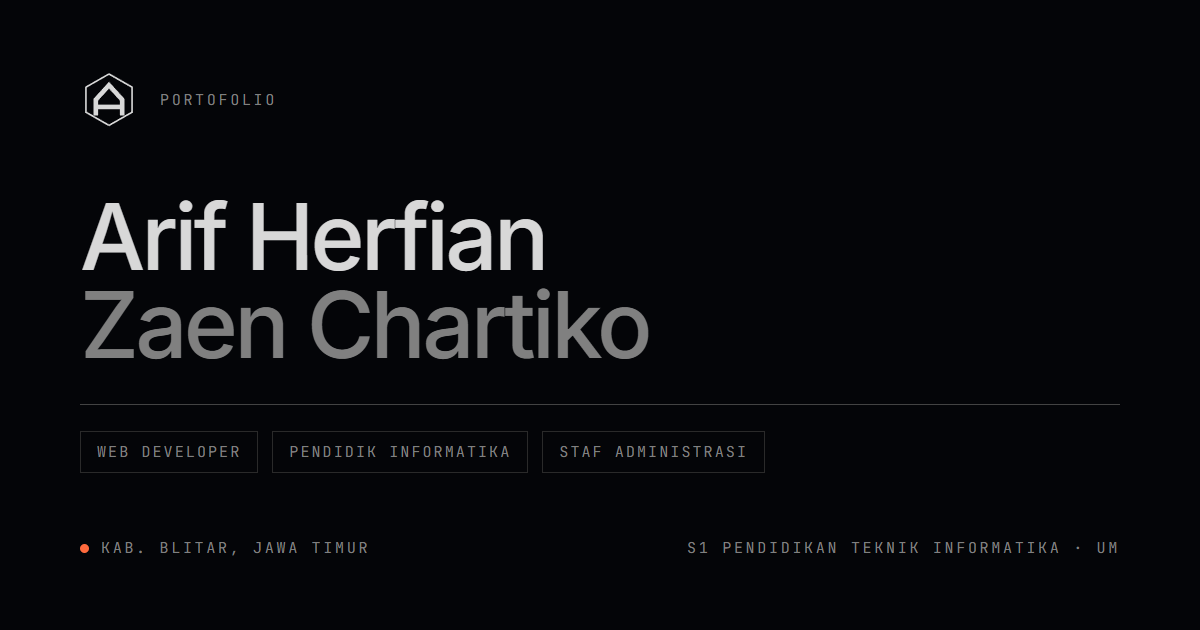
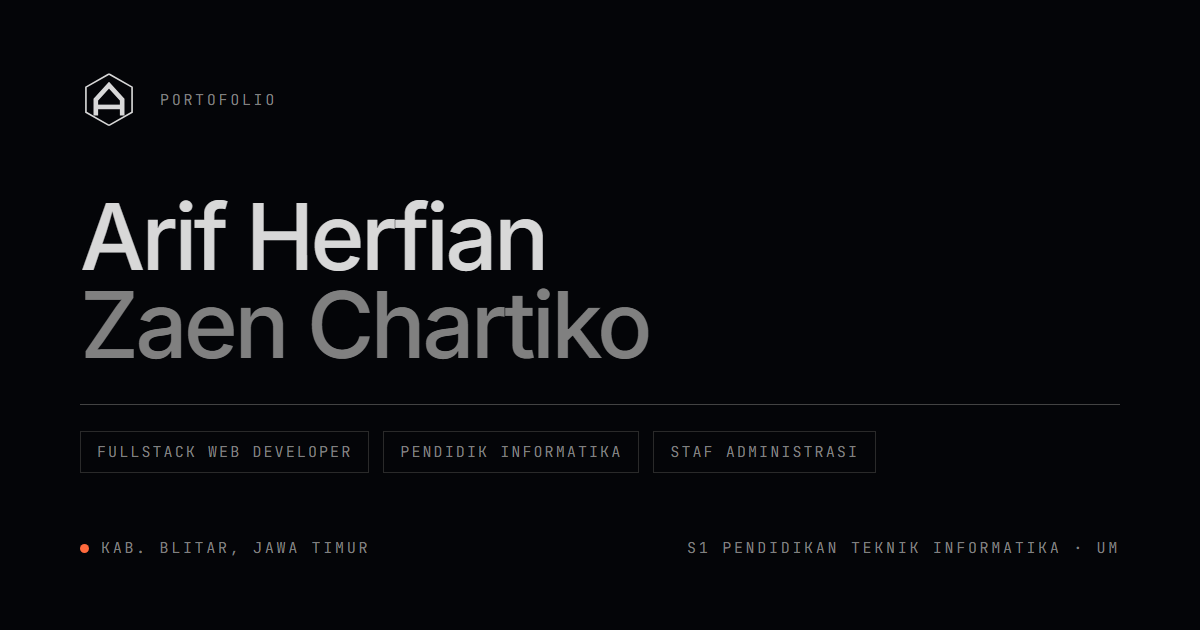
Ubah peran utama jadi Fullstack Web Developer
index.html                       +12  -6
  src/components/Keahlian.jsx     +136 -24
  src/components/Hero.jsx          +10  -4
  src/components/Tentang.jsx        +3  -3
  Footer / Kontak / Pengalaman.jsx  +1  -1  masing-masing
  tools/og-template.html            +1  -1
  public/assets/icons/{laravel,php,mysql}.svg   BARU
  public/assets/og.png             35118 -> 35736 B, di-render ulang
                                  12 files changed, 242(+), 41(-)

Teks peran, 13 tempat. index.html: <title>, <meta name="description">,
og:title, og:description, og:image:alt. Hero.jsx:99 attribute
data-typewriter, elemen pertama array JSON. Tentang.jsx:34 paragraf
data-word-scrub dan :43 <h3> baris 01. Pengalaman.jsx:9 dan Footer.jsx:15,
keduanya isi [data-marquee-copy]. Kontak.jsx:47. Keahlian.jsx:75 judul
.stage-card--lead. og-template.html:85 kotak peran pertama.

Meta description kini mengeja "HTML, CSS, JavaScript, PHP, Laravel, MySQL"
secara harfiah. Panjangnya jadi 177 karakter, di atas 160 yang ditampilkan
Google -- disengaja: sisanya tetap ter-index, dan ATS mencocokkan nama
teknologi apa adanya, bukan kata payungnya.

Grid tools. Kelompok bertambah dari 4 jadi 5, isinya 3-4-2-2-3
(sebelumnya 4-2-2-3). Kelompok baru "Sisi Server" berdiri paling depan
berisi Laravel, PHP, MySQL; "Pengembangan" menyusul dengan keempat isi
lamanya (VS Code, GitHub, Vercel, Figma) tanpa perubahan.

Seluruh data-delay dihitung ulang: 14 card, 0,03 berurutan dari 0 sampai
[…]

Changed region(s): [[0.0617, 0.6937, 0.7092, 0.7238]]

diff --git a/src/components/Keahlian.jsx b/src/components/Keahlian.jsx
@@ -49,8 +49,14 @@ export default function Keahlian() {
                di samping "Pengembangan Web". Keempatnya lalu tampil setara padahal
                tiga di antaranya peran dan satu cuma kemampuan penunjang — pembaca
                tidak punya cara membedakannya. Isinya sekarang masuk ke kartu
-               Pengembangan Web, karena memang di situ tempatnya: menyusun tampilan
-               adalah bagian dari membangunnya. */}
+               Pengembangan Fullstack, karena memang di situ tempatnya: menyusun
+               tampilan adalah bagian dari membangunnya.
+
+               Kartu itu berganti nama dari "Pengembangan Web" jadi "Pengembangan
+               Fullstack" pada 9 Agustus 2026, seiring peran utama di mesin ketik.
+               Namanya sengaja menyebut cakupan, bukan teknologinya: nama kerangka
+               kerja berganti setiap beberapa tahun, sedangkan "dua sisi" tidak.
+               Teknologinya disebut di kalimat bawahnya dan di kisi Perkakas. */}
           {/* KENAPA TIAP KARTU DIBUNGKUS .stage-slot, dan jangan dibuang.
                Ada DUA gerak yang bekerja pada kartu yang sama sekaligus, dan
                keduanya butuh `opacity`:
@@ -72,14 +78,20 @@ export default function Keahlian() {
             <div className="stage-slot stage-slot--lead" data-kartu-slot data-arah="pudar">
             <article data-kartu-peran className="stage-card stage-card--lead">
               <div className="mb-6 flex items-start justify-between gap-6">
-                <h3 className="-h2 max-w-[9em]">Pengembangan Web</h3>
+                <h3 className="-h2 max-w-[9em]">Pengembangan Fullstack</h3>
                 <span data-glyph="1"></span>
               </div>
               {/* Lebar teks dibatasi meski kartunya melebar. Tanpa ini satu baris
                    memuat sekitar 130 karakter di desktop, dan mata kehilangan tempat
                    saat berpindah ke baris berikutnya. 42rem menahannya di sekitar
                    88 karakter. */}
-              <p className="-body-small max-w-2xl text-text-muted">Membangun dengan HTML, CSS, dan JavaScript tanpa kerangka kerja: menyusun layout dan hierarki visual, menjaga tampilan tetap terbaca dari ponsel sampai desktop, serta menakar gerak dan bobot halaman supaya tetap ringan di perangkat kelas menengah.</p>
+              {/* "tanpa kerangka kerja" DIBUANG dari kalimat ini pada 9 Agustus
+                   2026, dan bukan cuma karena Laravel masuk. Frasa itu memang
+                   sudah keliru sejak situs ini dikembalikan ke React sehari
+                   sebelumnya — halaman yang memuat kalimatnya sendiri dibangun
+                   dengan kerangka kerja. Kalimat yang dibantah oleh halaman
+                   tempat ia berdiri adalah yang paling mahal ongkosnya. */}
+              <p className="-body-small max-w-2xl text-text-muted">Mengerjakan dua sisi sekaligus: antarmuka dengan HTML, CSS, dan JavaScript — menyusun layout, hierarki visual, dan gerak yang terukur supaya tetap ringan di perangkat kelas menengah — lalu sisi server dengan PHP dan Laravel, termasuk merancang skema serta kueri MySQL yang menopangnya.</p>
             </article>
             </div>
 
@@ -168,18 +180,117 @@ export default function Keahlian() {
                dari UI/UX Designer jadi Web Developer: ia berdiri paling depan
                padahal tidak lagi mewakili peran mana pun yang diklaim di sampul.
                Jeda animasi seluruh baris di bawah ikut dihitung ulang supaya
-               kembali berurutan 0,03 dari nol. */}
+               kembali berurutan 0,03 dari nol.
+
+               LARAVEL, PHP, DAN MYSQL DITAMBAHKAN pada 9 Agustus 2026, waktu
+               peran utama berganti dari Web Developer jadi Fullstack Web
+               Developer. Tanpa ketiganya klaim di sampul tidak punya alas sama
+               sekali: kisi ini seluruhnya perkakas sisi antarmuka, sehingga
+               kata "fullstack" cuma jadi label yang dibantah oleh isinya
+               sendiri. Ketiganya berdiri sebagai kelompok PERTAMA, dengan
+               alasan yang ditulis panjang tepat di atas barisnya.
+
+               Kelompoknya jadi lima, isinya 3-4-2-2-3, dan jeda seluruh kisi
+               digeser: yang tadinya berakhir di 0,30 sekarang 0,39. Aturannya
+               tidak berubah — 0,03 berurutan dari nol menembus semua kelompok,
+               dan label tiap kelompok memakai jeda kartu pertamanya. */}
           <div>
             <h3 data-component="scrub-reveal" className="-caption-small mb-8 text-text-muted">Perkakas</h3>
             <div className="border-t border-line">
 
+              {/* SISI SERVER BERDIRI SEBAGAI KELOMPOK SENDIRI, bukan disatukan
+                   ke Pengembangan, dan ada dua alasan yang kebetulan sejalan.
+
+                   YANG PERTAMA, TATA LETAK. Sempat dicoba satu kelompok berisi
+                   tujuh, dan itu memecahkan sifat yang dijaga kisi ini sejak
+                   awal: jumlah kartu per baris ditentukan penulisnya, bukan
+                   lebar layar. Terukur pada tujuh — desktop memuat enam lalu
+                   melempar Figma sendirian ke baris kedua (982px ruang isi
+                   dibagi 152px per kartu = 6,4), sementara ponsel yang dipatok
+                   25% memuat empat lalu tiga. Dua susunan berbeda untuk kisi
+                   yang sama. Dipecah jadi 3 dan 4, keduanya muat satu baris
+                   penuh di semua lebar, persis seperti kelompok lainnya.
+
+                   YANG KEDUA, DAN INI YANG SEBENARNYA LEBIH PENTING: label
+                   inilah yang membuat klaim "fullstack" bisa DILIHAT, bukan
+                   cuma dibaca. Satu baris berlabel "Sisi Server" menjawab
+                   pertanyaan yang paling wajar diajukan pembaca — frontend,
+                   backend, atau yang mana — tanpa satu kalimat penjelasan pun.
+
+                   Namanya "Sisi Server", bukan "Backend", supaya seragam dengan
+                   kalimat di kartu Pengembangan Fullstack di atas yang juga
+                   memakai frasa itu. Dua nama untuk satu hal di halaman yang
+                   sama membuat pembaca berhenti menimbang apakah keduanya
+                   memang hal yang berbeda.
+
+                   Kelompok Pengembangan di bawahnya sengaja TIDAK diberi nama
+                   "Frontend": isinya editor, kendali versi, tempat terbit, dan
+                   perkakas rancang — tidak satu pun khusus sisi antarmuka.
+                   Menamainya begitu akan jadi label yang dibantah isinya. */}
               <div className="tool-row border-b border-line">
-                <h4 data-component="scrub-reveal" data-delay="0" className="-caption-small tool-label text-text-muted">Pengembangan</h4>
+                <h4 data-component="scrub-reveal" data-delay="0" className="-caption-small tool-label text-text-muted">Sisi Server</h4>
                 <span data-component="scrub-reveal" data-delay="0" className="h-px w-8 self-center bg-line"></span>
 
                 <div className="tool-items">
 
                   <div data-component="scrub-reveal" data-delay="0" className="group flex flex-col items-center justify-start gap-3 px-2 text-center nav:gap-4">
+                    <span className="flex w-full justify-center text-text">
+                      <span className="flex h-8 w-full shrink-0 items-center justify-center nav:h-9">
+                        <img src="assets/icons/laravel.svg" alt="" loading="lazy" decoding="async" className="max-h-full max-w-full object-contain" />
+                      </span>
+                    </span>
+                    <span className="-body-smaller leading-tight text-text-muted transition-colors duration-500 ease-brand group-hover:text-text">Laravel</span>
+                  </div>
+
+                  {/* Lambang resmi PHP adalah wordmark "php" DI DALAM elips
+                       lavender berlis putih — ia satu-satunya di kisi ini yang
+                       membawa latarnya sendiri. Di halaman segelap ini elips itu
+                       terbaca sebagai gumpalan paling terang di barisnya, jauh
+                       melebihi porsinya dibanding Laravel dan VS Code.
+
+                       Diukur pada 36px berdampingan dengan tetangganya: pada
+                       skala 1,0 ia mendominasi, pada 0,80 ia jadi terlalu kecil
+                       untuk terbaca hurufnya. 0,88 titik tengahnya — bobotnya
+                       setara GitHub dan VS Code, tulisan "php"-nya masih terbaca.
+
+                       Ini perlakuan yang sama dengan Vercel (0,86) dan Stitch
+                       (0,85): SKALANYA yang diturunkan, bukan warnanya diganti.
+                       Mengubah warna lambang resmi orang lain melanggar pedoman
+                       mereknya; mengecilkannya tidak. */}
+                  <div data-component="scrub-reveal" data-delay="0.03" className="group flex flex-col items-center justify-start gap-3 px-2 text-center nav:gap-4">
+                    <span className="flex w-full justify-center text-text">
+                      <span className="flex h-8 w-full shrink-0 items-center justify-center nav:h-9">
+                        <img src="assets/icons/php.svg" alt="" loading="lazy" decoding="async" style={{ transform: "scale(0.88)" }} className="max-h-full max-w-full object-contain" />
+                      </span>
+                    </span>
+                    <span className="-body-smaller leading-tight text-text-muted transition-colors duration-500 ease-brand group-hover:text-text">PHP</span>
+                  </div>
+
+                  {/* MySQL DINAIKKAN ke 1,06, kebalikan dari PHP. Lambangnya
+                       lumba-lumba di atas wordmark, jadi tingginya terbagi dua
+                       dan tulisan "MySQL" cuma kebagian sekitar 40% dari 36px.
+                       Pada skala 1,0 tulisannya mengecil sampai hampir tak
+                       terbaca; 1,06 mengembalikannya tanpa membuat lumba-lumbanya
+                       melewati tinggi kotak. */}
+                  <div data-component="scrub-reveal" data-delay="0.06" className="group flex flex-col items-center justify-start gap-3 px-2 text-center nav:gap-4">
+                    <span className="flex w-full justify-center text-text">
+                      <span className="flex h-8 w-full shrink-0 items-center justify-center nav:h-9">
+                        <img src="assets/icons/mysql.svg" alt="" loading="lazy" decoding="async" style={{ transform: "scale(1.06)" }} className="max-h-full max-w-full object-contain" />
+                      </span>
+                    </span>
+                    <span className="-body-smaller leading-tight text-text-muted transition-colors duration-500 ease-brand group-hover:text-text">MySQL</span>
+                  </div>
+
+                </div>
+              </div>
+
+              <div className="tool-row border-b border-line">
+                <h4 data-component="scrub-reveal" data-delay="0.09" className="-caption-small tool-label text-text-muted">Pengembangan</h4>
+                <span data-component="scrub-reveal" data-delay="0.09" className="h-px w-8 self-center bg-line"></span>
+
+                <div className="tool-items">
+
+                  <div data-component="scrub-reveal" data-delay="0.09" className="group flex flex-col items-center justify-start gap-3 px-2 text-center nav:gap-4">
                     <span className="flex w-full justify-center text-text">
                       <span className="flex h-8 w-full shrink-0 items-center justify-center nav:h-9">
                         <img src="assets/icons/vscode.svg" alt="" loading="lazy" decoding="async" style={{ transform: "scale(1.14)" }} className="max-h-full max-w-full object-contain" />
@@ -191,7 +302,7 @@ export default function Keahlian() {
                   {/* GitHub dan Notion tampil satu warna, dan itu BUKAN
                        penambal: lambang resmi keduanya memang tidak punya versi
                        berwarna menurut pedoman mereknya sendiri. */}
-                  <div data-component="scrub-reveal" data-delay="0.03" className="group flex flex-col items-center justify-start gap-3 px-2 text-center nav:gap-4">
+                  <div data-component="scrub-reveal" data-delay="0.12" className="group flex flex-col items-center justify-start gap-3 px-2 text-center nav:gap-4">
                     <span className="flex w-full justify-center text-text">
                       <span className="flex h-8 w-full shrink-0 items-center justify-center nav:h-9">
                         <svg viewBox="0 0 24 24" fill="currentColor" aria-hidden="true" className="aspect-square h-full"><path d="M12 .297c-6.63 0-12 5.373-12 12c0 5.303 3.438 9.8 8.205 11.385c.6.113.82-.258.82-.577c0-.285-.01-1.04-.015-2.04c-3.338.724-4.042-1.61-4.042-1.61C4.422 18.07 3.633 17.7 3.633 17.7c-1.087-.744.084-.729.084-.729c1.205.084 1.838 1.236 1.838 1.236c1.07 1.835 2.809 1.305 3.495.998c.108-.776.417-1.305.76-1.605c-2.665-.3-5.466-1.332-5.466-5.93c0-1.31.465-2.38 1.235-3.22c-.135-.303-.54-1.523.105-3.176c0 0 1.005-.322 3.3 1.23c.96-.267 1.98-.399 3-.405c1.02.006 2.04.138 3 .405c2.28-1.552 3.285-1.23 3.285-1.23c.645 1.653.24 2.873.12 3.176c.765.84 1.23 1.91 1.23 3.22c0 4.61-2.805 5.625-5.475 5.92c.42.36.81 1.096.81 2.22c0 1.606-.015 2.896-.015 3.286c0 .315.21.69.825.57C20.565 22.092 24 17.592 24 12.297c0-6.627-5.373-12-12-12" /></svg>
@@ -203,7 +314,7 @@ export default function Keahlian() {
                   {/* Vercel digambar satu warna: lambang resminya memang hanya
                        hitam atau putih. Aslinya hitam, dibalik ke #d8d8d8 karena
                        latar bagian ini gelap. */}
-                  <div data-component="scrub-reveal" data-delay="0.06" className="group flex flex-col items-center justify-start gap-3 px-2 text-center nav:gap-4">
+                  <div data-component="scrub-reveal" data-delay="0.15" className="group flex flex-col items-center justify-start gap-3 px-2 text-center nav:gap-4">
                     <span className="flex w-full justify-center text-text">
                       <span className="flex h-8 w-full shrink-0 items-center justify-center nav:h-9">
                         <img src="assets/icons/vercel.svg" alt="" loading="lazy" decoding="async" style={{ transform: "scale(0.86)" }} className="max-h-full max-w-full object-contain" />
@@ -215,8 +326,9 @@ export default function Keahlian() {
                   {/* Figma ditaruh PALING BELAKANG di baris ini, bukan paling depan,
                        meski di alur kerja ia datang lebih dulu dari menulis kode.
                        Baris ini dibaca dari kiri sebagai apa yang paling mewakili
-                       peran Web Developer, dan yang harus berdiri di depan adalah
-                       perkakas membangunnya. Kalau nanti barisnya mau dibaca sebagai
+                       peran Fullstack Web Developer, dan yang harus berdiri di depan
+                       adalah perkakas membangunnya — sejak 9 Agustus 2026 itu berarti
+                       Laravel, PHP, dan MySQL. Kalau nanti barisnya mau dibaca sebagai
                        alur — rancang, tulis, simpan, terbitkan — pindahkan Figma ke
                        depan dan hitung ulang jedanya.
 
@@ -224,7 +336,7 @@ export default function Keahlian() {
                        halaman unduhan Figma. Warnanya rona baru mereka (#FF7237,
                        #FF3737, #00B6FF, #874FFF, #24CB71), bukan rona lama yang
                        masih banyak beredar di kumpulan lambang pihak ketiga. */}
-                  <div data-component="scrub-reveal" data-delay="0.09" className="group flex flex-col items-center justify-start gap-3 px-2 text-center nav:gap-4">
+                  <div data-component="scrub-reveal" data-delay="0.18" className="group flex flex-col items-center justify-start gap-3 px-2 text-center nav:gap-4">
                     <span className="flex w-full justify-center text-text">
                       <span className="flex h-8 w-full shrink-0 items-center justify-center nav:h-9">
                         <img src="assets/icons/figma.svg" alt="" loading="lazy" decoding="async" className="max-h-full max-w-full object-contain" />
@@ -243,12 +355,12 @@ export default function Keahlian() {
                    ditulis dua kali; yang memberi tahu perannya adalah kartu pengalaman
                    "Guru Informatika" di bagian Pengalaman. */}
               <div className="tool-row border-b border-line">
-                <h4 data-component="scrub-reveal" data-delay="0.12" className="-caption-small tool-label text-text-muted">Pengajaran</h4>
-                <span data-component="scrub-reveal" data-delay="0.12" className="h-px w-8 self-center bg-line"></span>
+                <h4 data-component="scrub-reveal" data-delay="0.21" className="-caption-small tool-label text-text-muted">Pengajaran</h4>
+                <span data-component="scrub-reveal" data-delay="0.21" className="h-px w-8 self-center bg-line"></span>
 
                 <div className="tool-items">
 
-                  <div data-component="scrub-reveal" data-delay="0.12" className="group flex flex-col items-center justify-start gap-3 px-2 text-center nav:gap-4">
+                  <div data-component="scrub-reveal" data-delay="0.21" className="group flex flex-col items-center justify-start gap-3 px-2 text-center nav:gap-4">
                     <span className="flex w-full justify-center text-text">
                       <span className="flex h-8 w-full shrink-0 items-center justify-center nav:h-9">
                         <img src="assets/icons/google-classroom.svg" alt="" loading="lazy" decoding="async" style={{ transform: "scale(1.25)" }} className="max-h-full max-w-full object-contain" />
@@ -288,7 +400,7 @@ export default function Keahlian() {
                        ditambahkan: terangkan pada rona aslinya, jangan diganti
                        warnanya. Wordmark Quizizz dulu aslinya #5D2057 dan nyaris
                        tak terlihat di latar #040508. */}
-                  <div data-component="scrub-reveal" data-delay="0.15" className="group flex flex-col items-center justify-start gap-3 px-2 text-center nav:gap-4">
+                  <div data-component="scrub-reveal" data-delay="0.24" className="group flex flex-col items-center justify-start gap-3 px-2 text-center nav:gap-4">
                     <span className="flex w-full justify-center text-text">
                       <span className="flex h-8 w-full shrink-0 items-center justify-center nav:h-9">
                         <img src="assets/icons/wayground.svg" alt="" loading="lazy" decoding="async" className="max-h-full max-w-full object-contain" />
@@ -301,12 +413,12 @@ export default function Keahlian() {
               </div>
 
               <div className="tool-row border-b border-line">
-                <h4 data-component="scrub-reveal" data-delay="0.18" className="-caption-small tool-label text-text-muted">Administrasi</h4>
-                <span data-component="scrub-reveal" data-delay="0.18" className="h-px w-8 self-center bg-line"></span>
+                <h4 data-component="scrub-reveal" data-delay="0.27" className="-caption-small tool-label text-text-muted">Administrasi</h4>
+                <span data-component="scrub-reveal" data-delay="0.27" className="h-px w-8 self-center bg-line"></span>
 
                 <div className="tool-items">
 
-                  <div data-component="scrub-reveal" data-delay="0.18" className="group flex flex-col items-center justify-start gap-3 px-2 text-center nav:gap-4">
+                  <div data-component="scrub-reveal" data-delay="0.27" className="group flex flex-col items-center justify-start gap-3 px-2 text-center nav:gap-4">
                     <span className="flex w-full justify-center text-text">
                       <span className="flex h-8 w-full shrink-0 items-center justify-center nav:h-9">
                         <img src="assets/icons/ms-office.svg" alt="" loading="lazy" decoding="async" className="max-h-full max-w-full object-contain" />
@@ -318,7 +430,7 @@ export default function Keahlian() {
                   {/* Google Workspace memakai wordmark penuhnya, perbandingan 7,76:1.
                        Ia memang tampil lebih pendek daripada lambang persegi di
                        sebelahnya — itu sifat wordmark sepanjang ini, bukan salah ukuran. */}
-                  <div data-component="scrub-reveal" data-delay="0.21" className="group flex flex-col items-center justify-start gap-3 px-2 text-center nav:gap-4">
+                  <div data-component="scrub-reveal" data-delay="0.30" className="group flex flex-col items-center justify-start gap-3 px-2 text-center nav:gap-4">
                     <span className="flex w-full justify-center text-text">
                       <span className="flex h-8 w-full shrink-0 items-center justify-center nav:h-9">
                         <img src="assets/icons/google-workspace.svg" alt="" loading="lazy" decoding="async" className="max-h-full max-w-full object-contain" />
@@ -331,12 +443,12 @@ export default function Keahlian() {
               </div>
 
               <div className="tool-row border-b border-line">
-                <h4 data-component="scrub-reveal" data-delay="0.24" className="-caption-small tool-label text-text-muted">AI</h4>
-                <span data-component="scrub-reveal" data-delay="0.24" className="h-px w-8 self-center bg-line"></span>
+                <h4 data-component="scrub-reveal" data-delay="0.33" className="-caption-small tool-label text-text-muted">AI</h4>
+                <span data-component="scrub-reveal" data-delay="0.33" className="h-px w-8 self-center bg-line"></span>
 
                 <div className="tool-items">
 
-                  <div data-component="scrub-reveal" data-delay="0.24" className="group flex flex-col items-center justify-start gap-3 px-2 text-center nav:gap-4">
+                  <div data-component="scrub-reveal" data-delay="0.33" className="group flex flex-col items-center justify-start gap-3 px-2 text-center nav:gap-4">
                     <span className="flex w-full justify-center text-text">
                       <span className="flex h-8 w-full shrink-0 items-center justify-center nav:h-9">
                         <img src="assets/icons/claude.svg" alt="" loading="lazy" decoding="async" style={{ transform: "scale(1.14)" }} className="max-h-full max-w-full object-contain" />
@@ -345,7 +457,7 @@ export default function Keahlian() {
                     <span className="-body-smaller leading-tight text-text-muted transition-colors duration-500 ease-brand group-hover:text-text">Claude</span>
                   </div>
 
-                  <div data-component="scrub-reveal" data-delay="0.27" className="group flex flex-col items-center justify-start gap-3 px-2 text-center nav:gap-4">
+                  <div data-component="scrub-reveal" data-delay="0.36" className="group flex flex-col items-center justify-start gap-3 px-2 text-center nav:gap-4">
                     <span className="flex w-full justify-center text-text">
                       <span className="flex h-8 w-full shrink-0 items-center justify-center nav:h-9">
                         <img src="assets/icons/claude-code.svg" alt="" loading="lazy" decoding="async" className="max-h-full max-w-full object-contain" />
@@ -387,7 +499,7 @@ export default function Keahlian() {
 
                        scale(0.85) menahannya supaya tidak lebih dominan dari
                        lambang tetangganya yang bujur sangkar. */}
-                  <div data-component="scrub-reveal" data-delay="0.30" className="group flex flex-col items-center justify-start gap-3 px-2 text-center nav:gap-4">
+                  <div data-component="scrub-reveal" data-delay="0.39" className="group flex flex-col items-center justify-start gap-3 px-2 text-center nav:gap-4">
                     <span className="flex w-full justify-center text-text">
                       <span className="flex h-8 w-full shrink-0 items-center justify-center nav:h-9">
                         <img src="assets/icons/stitch.svg" alt="" loading="lazy" decoding="async" style={{ transform: "scale(0.85)" }} className="max-h-full max-w-full object-contain" />

diff --git a/index.html b/index.html
@@ -10,14 +10,20 @@
 
        Tetap ditulis di sini, BUKAN di React. Berkas ini yang dikirim server
        apa adanya; kalau judul dan deskripsi dipasang belakangan oleh React,
-       perayap yang tidak menjalankan JavaScript tidak akan melihatnya. -->
-  <meta name="description" content="Arif Herfian Zaen Chartiko — Web Developer, Pendidik Informatika, dan Staf Administrasi. Lulusan Pendidikan Teknik Informatika, Universitas Negeri Malang.">
-  <title>Arif Herfian Zaen Chartiko — Web Developer</title>
+       perayap yang tidak menjalankan JavaScript tidak akan melihatnya.
+
+       NAMA TEKNOLOGINYA DITULIS HARFIAH di deskripsi, bukan diringkas jadi
+       "fullstack" saja. Penyaring lamaran dan pencarian mencocokkan teks apa
+       adanya: yang dicari orang "Laravel" dan "MySQL", bukan kata payungnya.
+       Deskripsinya karena itu sedikit lebih panjang dari 160 karakter yang
+       ditampilkan Google — sisanya tetap terindeks, cuma tidak tampil. -->
+  <meta name="description" content="Arif Herfian Zaen Chartiko — Fullstack Web Developer (HTML, CSS, JavaScript, PHP, Laravel, MySQL), Pendidik Informatika, dan Staf Administrasi. Lulusan Universitas Negeri Malang.">
+  <title>Arif Herfian Zaen Chartiko — Fullstack Web Developer</title>
 
   <meta property="og:type" content="website">
   <meta property="og:locale" content="id_ID">
-  <meta property="og:title" content="Arif Herfian Zaen Chartiko — Web Developer">
-  <meta property="og:description" content="Arif Herfian Zaen Chartiko — Web Developer, Pendidik Informatika, dan Staf Administrasi. Lulusan Pendidikan Teknik Informatika, Universitas Negeri Malang.">
+  <meta property="og:title" content="Arif Herfian Zaen Chartiko — Fullstack Web Developer">
+  <meta property="og:description" content="Arif Herfian Zaen Chartiko — Fullstack Web Developer (HTML, CSS, JavaScript, PHP, Laravel, MySQL), Pendidik Informatika, dan Staf Administrasi. Lulusan Universitas Negeri Malang.">
   <meta property="og:url" content="https://webprofile-arifherfianzaenchartiko.vercel.app/">
 
   <!-- Kartu pratinjau saat tautannya dibagikan. Sampai 9 Agustus 2026 tag ini
@@ -37,7 +43,7 @@
   <meta property="og:image" content="https://webprofile-arifherfianzaenchartiko.vercel.app/assets/og.png">
   <meta property="og:image:width" content="1200">
   <meta property="og:image:height" content="630">
-  <meta property="og:image:alt" content="Arif Herfian Zaen Chartiko — Web Developer, Pendidik Informatika, Staf Administrasi">
+  <meta property="og:image:alt" content="Arif Herfian Zaen Chartiko — Fullstack Web Developer, Pendidik Informatika, Staf Administrasi">
   <meta name="twitter:card" content="summary_large_image">
 
   <!-- SVG, bukan .ico: satu berkas 700 byte yang tajam di semua ukuran, dan

diff --git a/src/components/Tentang.jsx b/src/components/Tentang.jsx
@@ -31,7 +31,7 @@ export default function Tentang() {
 
           <div className="min-w-0 nav:min-h-[62vh]">
             <div className="flex flex-col gap-16">
-              <p className="-h2 max-w-[38rem]" data-word-scrub>Saya membangun antarmuka web yang mudah diikuti, dengan kebiasaan menjelaskan yang dibawa dari ruang kelas, dan perhatian pada rancangan yang menjaga hasilnya tetap enak dipakai.</p>
+              <p className="-h2 max-w-[38rem]" data-word-scrub>Saya membangun web dari antarmukanya sampai sisi servernya, dengan kebiasaan menjelaskan yang dibawa dari ruang kelas, dan perhatian pada rancangan yang menjaga hasilnya tetap enak dipakai.</p>
 
               {/* Baris bergaris, bukan kartu. Tiga kartu bertumpuk di kolom sempit
                    terbaca sebagai tiga hal setara yang saling bersaing; baris
@@ -40,8 +40,8 @@ export default function Tentang() {
                 <div data-component="scrub-reveal">
                   <div className="group relative grid grid-cols-1 gap-x-8 gap-y-3 border-b border-line py-8 nav:grid-cols-[3rem_minmax(0,13rem)_minmax(0,1fr)]">
                     <span className="-mono tabular-nums text-text-muted">01</span>
-                    <h3 className="-title-3 transition-transform duration-500 ease-brand nav:group-hover:translate-x-1">Web Developer</h3>
-                    <p className="-body-small max-w-xl text-text-muted">Membangun antarmuka web yang responsif dengan HTML, CSS, dan JavaScript: struktur yang rapi, gerak yang terukur, dan halaman yang tetap ringan di perangkat kelas menengah. Ditopang pemahaman desain, sehingga hasilnya tidak sekadar berfungsi.</p>
+                    <h3 className="-title-3 transition-transform duration-500 ease-brand nav:group-hover:translate-x-1">Fullstack Web Developer</h3>
+                    <p className="-body-small max-w-xl text-text-muted">Mengerjakan kedua sisi: antarmuka responsif dengan HTML, CSS, dan JavaScript, serta sisi server dengan PHP dan Laravel di atas basis data MySQL. Struktur yang rapi, gerak yang terukur, dan halaman yang tetap ringan di perangkat kelas menengah — ditopang pemahaman desain, sehingga hasilnya tidak sekadar berfungsi.</p>
                     <span aria-hidden="true" className="absolute bottom-[-1px] left-0 h-px w-full origin-left scale-x-0 bg-text transition-transform duration-700 ease-brand group-hover:scale-x-100"></span>
                   </div>
                 </div>

diff --git a/src/components/Hero.jsx b/src/components/Hero.jsx
@@ -91,12 +91,18 @@ export default function Hero() {
                 {/* `{" "}` WAJIB, bukan spasi biasa. JSX membuang whitespace yang
                     mengandung baris baru di antara teks dan elemen, jadi
                     "Saya seorang" + newline + <span> ter-render rapat jadi
-                    "Saya seorangWeb Developer". Di HTML lama newline itu tetap
-                    jadi satu spasi, karena itu cacat ini baru muncul setelah
-                    markupnya jadi JSX. Spasi eksplisit lolos dari pembuangan. */}
+                    "Saya seorangFullstack Web Developer". Di HTML lama newline
+                    itu tetap jadi satu spasi, karena itu cacat ini baru muncul
+                    setelah markupnya jadi JSX. Spasi eksplisit lolos dari
+                    pembuangan. */}
+                {/* "Fullstack Web Developer" (23 huruf) kini kata TERPANJANG di
+                    daftar ini, menggeser "Pendidik Informatika" (20). Itu yang
+                    menentukan lebar terpanjang baris ini, jadi kalau nanti ada
+                    peran yang lebih panjang lagi ditambahkan, periksa ulang
+                    layar 320px — di sanalah barisnya pertama kali membungkus. */}
                 <p className="-body text-text-muted">
                   Saya seorang{" "}
-                  <span className="font-medium text-text" data-typewriter='["Web Developer","Pendidik Informatika","Staf Administrasi"]'></span><span className="animate-kedip text-accent">_</span>
+                  <span className="font-medium text-text" data-typewriter='["Fullstack Web Developer","Pendidik Informatika","Staf Administrasi"]'></span><span className="animate-kedip text-accent">_</span>
                 </p>
                 <p className="-caption-small text-text-muted">Kab. Blitar, Jawa Timur</p>
               </div>

diff --git a/src/components/Pengalaman.jsx b/src/components/Pengalaman.jsx
@@ -6,7 +6,7 @@ export default function Pengalaman() {
       <div data-anim="marquee" data-speed="30" className="border-y border-line py-5">
         <div className="marquee-track">
           <div className="flex shrink-0" data-marquee-copy>
-            <span className="-caption flex items-center gap-8 pr-8 text-text-muted">Web Developer<span aria-hidden="true" className="text-accent">✦</span></span>
+            <span className="-caption flex items-center gap-8 pr-8 text-text-muted">Fullstack Web Developer<span aria-hidden="true" className="text-accent">✦</span></span>
             <span className="-caption flex items-center gap-8 pr-8 text-text-muted">Pendidik Informatika<span aria-hidden="true" className="text-accent">✦</span></span>
             <span className="-caption flex items-center gap-8 pr-8 text-text-muted">Universitas Negeri Malang<span aria-hidden="true" className="text-accent">✦</span></span>
           </div>

diff --git a/src/components/Footer.jsx b/src/components/Footer.jsx
@@ -12,7 +12,7 @@ export default function Footer() {
           <div className="marquee-track">
             <div className="flex shrink-0" data-marquee-copy>
               <span className="-caption flex items-center gap-8 pr-8 text-text-muted">Terbuka untuk kolaborasi<span aria-hidden="true" className="text-accent">✦</span></span>
-              <span className="-caption flex items-center gap-8 pr-8 text-text-muted">Pengembangan Web<span aria-hidden="true" className="text-accent">✦</span></span>
+              <span className="-caption flex items-center gap-8 pr-8 text-text-muted">Pengembangan Fullstack<span aria-hidden="true" className="text-accent">✦</span></span>
               <span className="-caption flex items-center gap-8 pr-8 text-text-muted">Pendidikan Informatika<span aria-hidden="true" className="text-accent">✦</span></span>
             </div>
           </div>

diff --git a/src/components/Kontak.jsx b/src/components/Kontak.jsx
@@ -44,7 +44,7 @@ export default function Kontak() {
               </h2>
 
               <p data-component="scrub-reveal" className="-body-small text-text-muted mt-7 max-w-[17rem]">
-                Terbuka untuk peluang pengembangan web, kolaborasi, atau diskusi seputar produk dan pendidikan
+                Terbuka untuk peluang pengembangan web fullstack, kolaborasi, atau diskusi seputar produk dan pendidikan
               </p>
             </header>
           </div>

diff --git a/tools/og-template.html b/tools/og-template.html
@@ -82,7 +82,7 @@
     <h1>Arif Herfian<br><span>Zaen Chartiko</span></h1>
     <div class="garis"></div>
     <div class="peran">
-      <span>Web Developer</span>
+      <span>Fullstack Web Developer</span>
       <span>Pendidik Informatika</span>
       <span>Staf Administrasi</span>
     </div>
